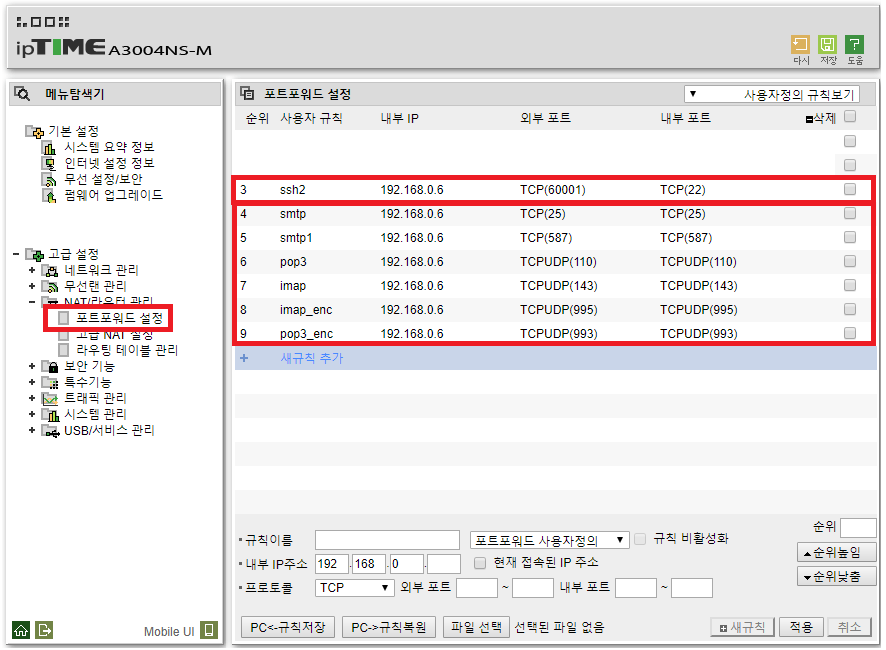
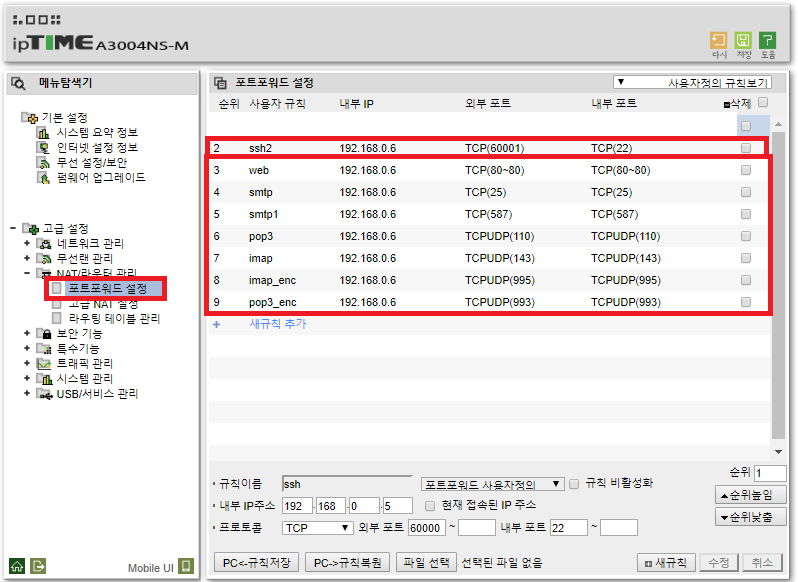
uploading image & modified mail-1

diff --git a/_posts/2018-09-20-building-mail-server-1.md b/_posts/2018-09-20-building-mail-server-1.md
@@ -37,7 +37,8 @@ date: 2018-09-20
 안에 들어가시면 위 사진과같이 설정이 되어있어야 합니다.
 설정 하는 방법은 간단한데 밑에 보이는 `규칙이름`에 임의의 이름을 넣고 `내부 IP주소`, 곧 아까 확인한 `192.168.0.6`를 입력하면 됩니다. 그리고 `외부포트`와 `내부포트`는 각각 사진의 있는 값을 따라서 적으시면 됩니다.
 
-3번의 ssh2룰은 외부에서 내부로 도메인을 사용해 ssh로 접속할때 쓰기위한 룰입니다
+2번의 ssh2룰은 외부에서 내부로 도메인을 사용해 ssh로 접속할때 쓰기위한 룰입니다
+3번룰은 2단계에서 Letsencrypt를 사용해서 인증서를 만들때 웹서버 인증이 필요하기 때문에 필요한 룰입니다. 
 4,5번룰은 SMTP에서 사용하는 포트를 포워딩 해주는 룰입니다.
 6~9번까지의 룰은 IMAP/POP3에서 사용하는 포트들을 포워딩 해주는 룰입니다. 
 
@@ -168,8 +169,15 @@ vim /etc/group
 ```
 계정을 만든 뒤에 위의 파일을 열어서 실제로 계정이 추가됐는지 확인할 수 있습니다. 
 
+![16](/assets/images/2018-09-20-building-mail-server-1/16.png)
 마지막으로 
+```bash
+chmod 777 /home
+```
+이 `/home`에 777을 주는 이유는 postfix에서 Maildir형식으로 메일 디렉토리를 구성할 것이기 때문입니다.(즉 이메일 계정이 생성될 때 마다 `/home/[user]/Maildir`이 생성됩니다)
+(시스템 어떠한 폴더에도 777권한은 위험하지만, 어차피 가벼운 메일서버로만 쓸꺼니까 괜찮겠죠...?혹시 다른 옵션 아시는분...알려주세요ㅠㅠ)
 
+모든 명령을 마친 이후에
 ![16](/assets/images/2018-09-20-building-mail-server-1/16.png)
 
 ```bash
